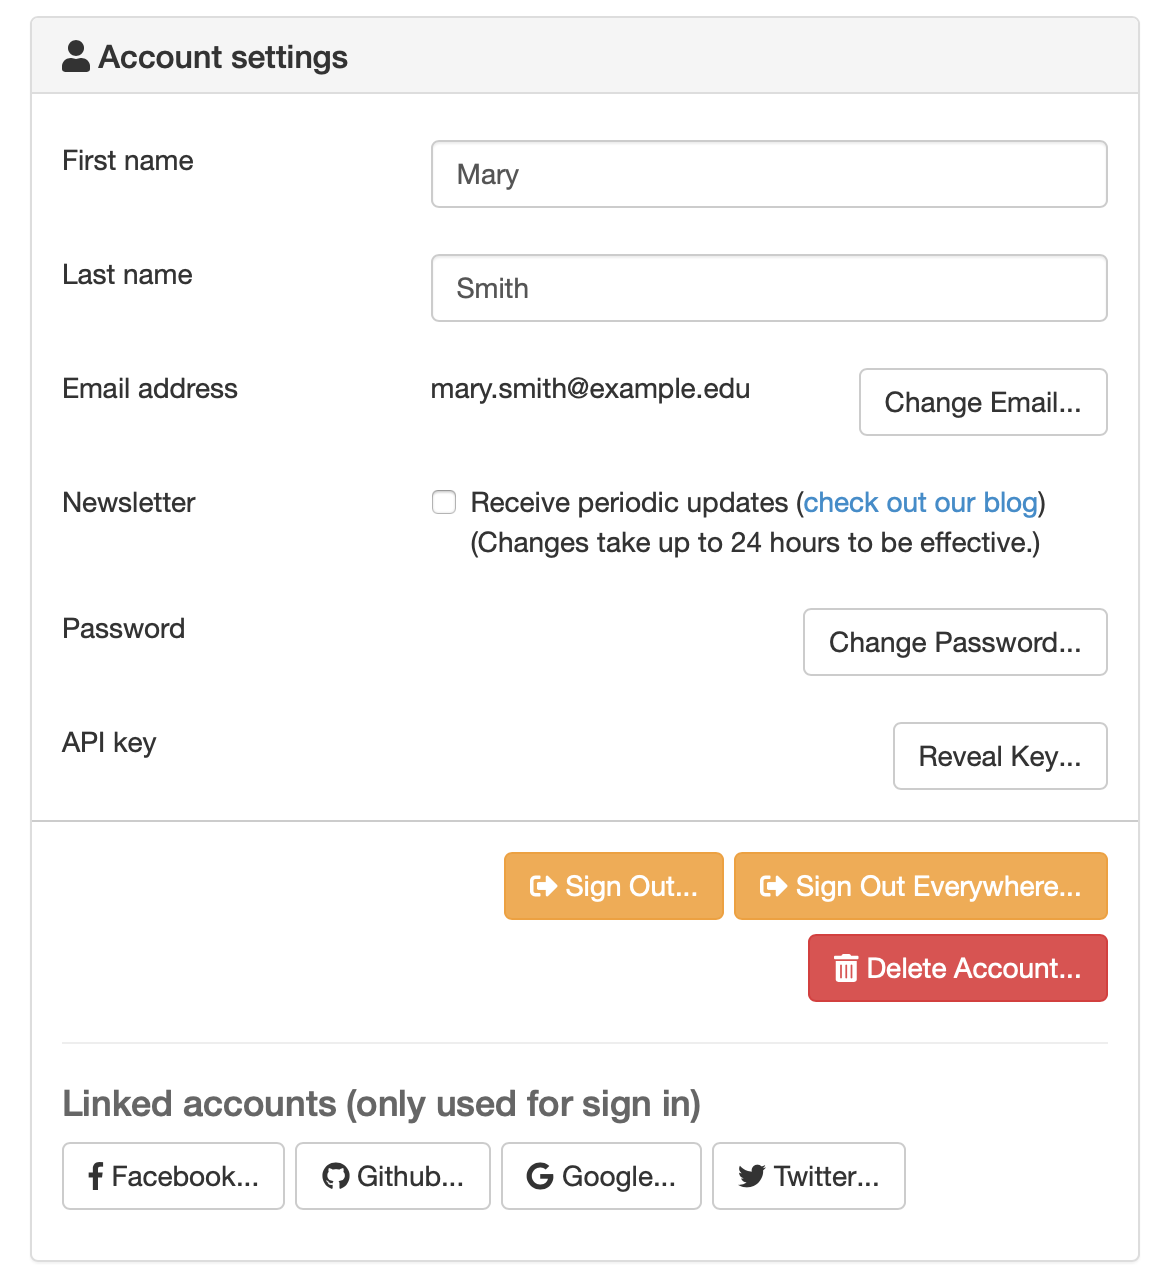
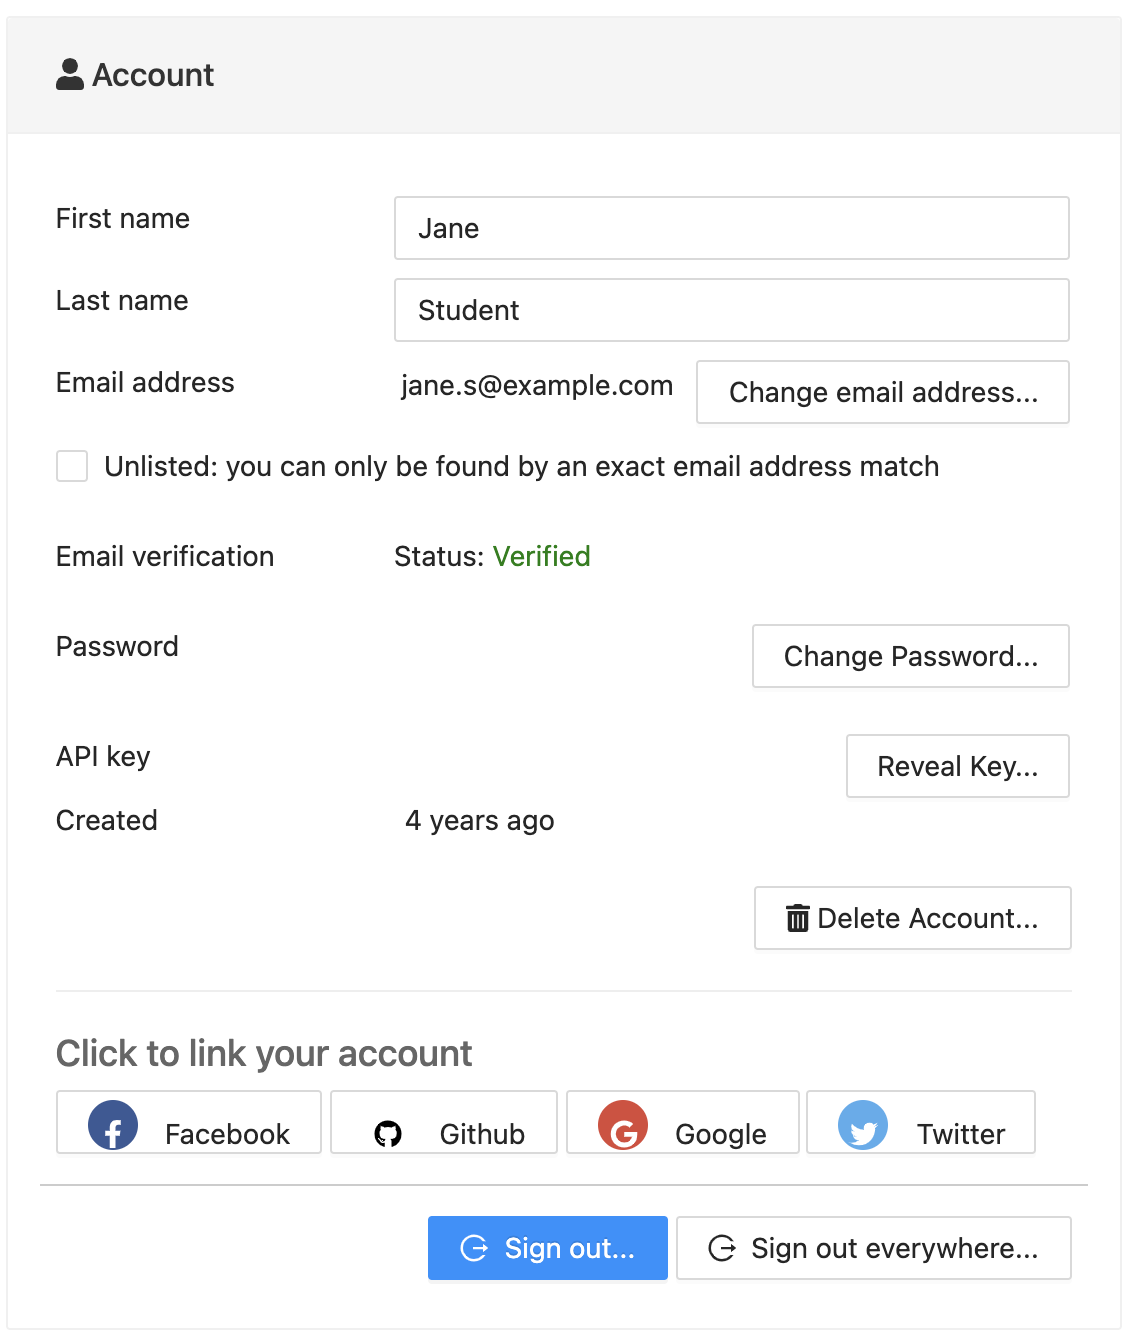
unlisted pref

diff --git a/source/account/preferences.rst b/source/account/preferences.rst
@@ -27,9 +27,9 @@ Most of the entries under ``Account settings`` are self-explanatory. Here are a 
 
 * Your password is needed to change your email address.
 
-* Your password is needed to create or change the API key for your account. See :doc:`CoCalc API documentation <../api/index>` to learn about the API.
+* Checking the "Unlisted" box will prevent your account from showing up in searches by name, for example when someone adds collaborators to a project.
 
-* The Newsletter checkbox doesn't do anything yet. We don't send out a newsletter.
+* Your password is needed to create or change the API key for your account. See :doc:`CoCalc API documentation <../api/index>` to learn about the API.
 
 * **Sign Out of CoCalc** using one of the "Sign Out" buttons. You will be asked to confirm your selection.
 
